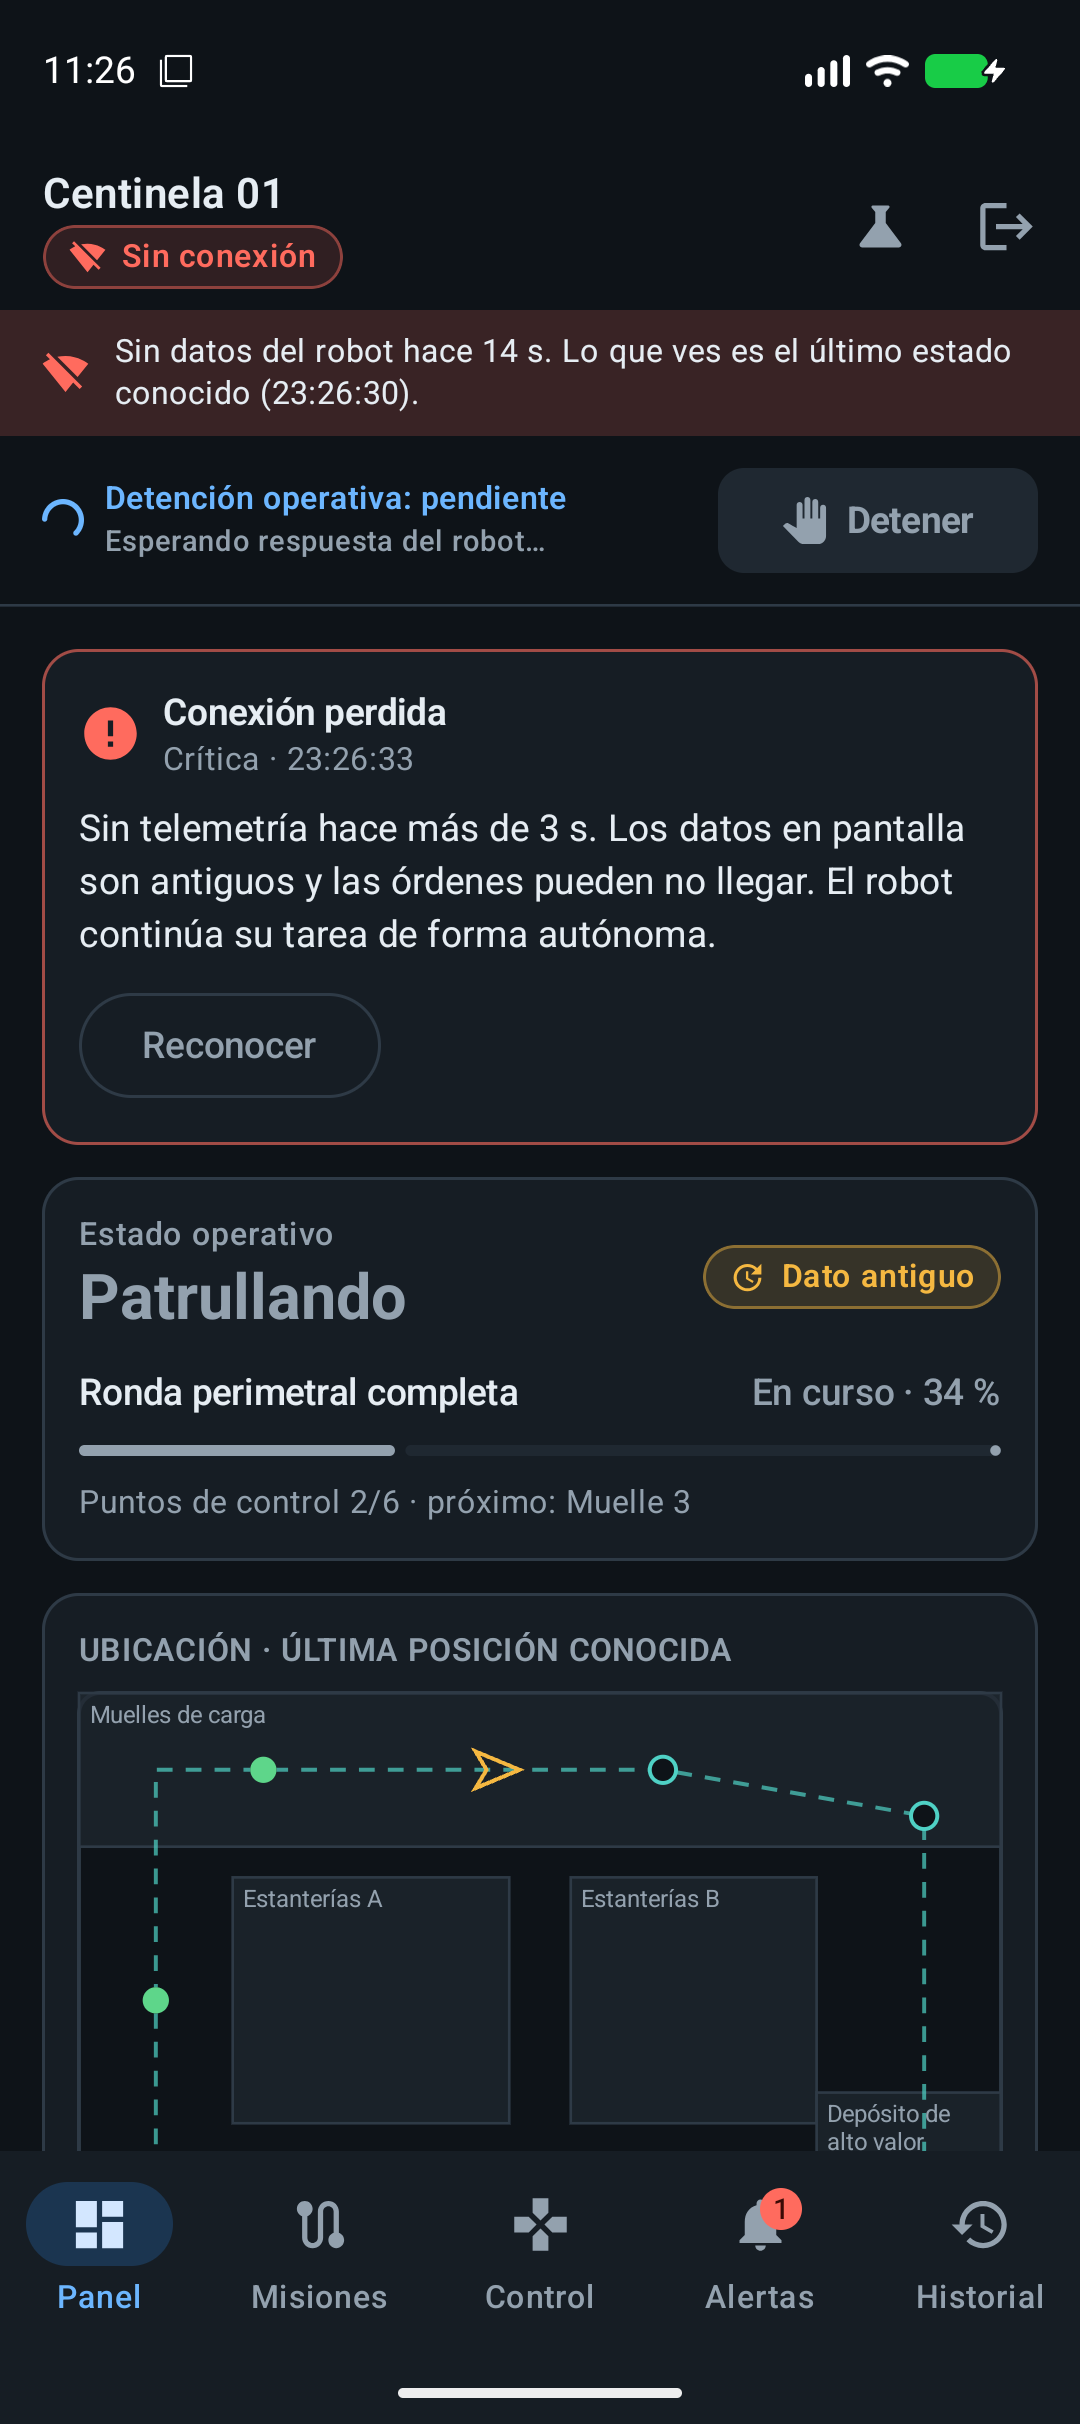
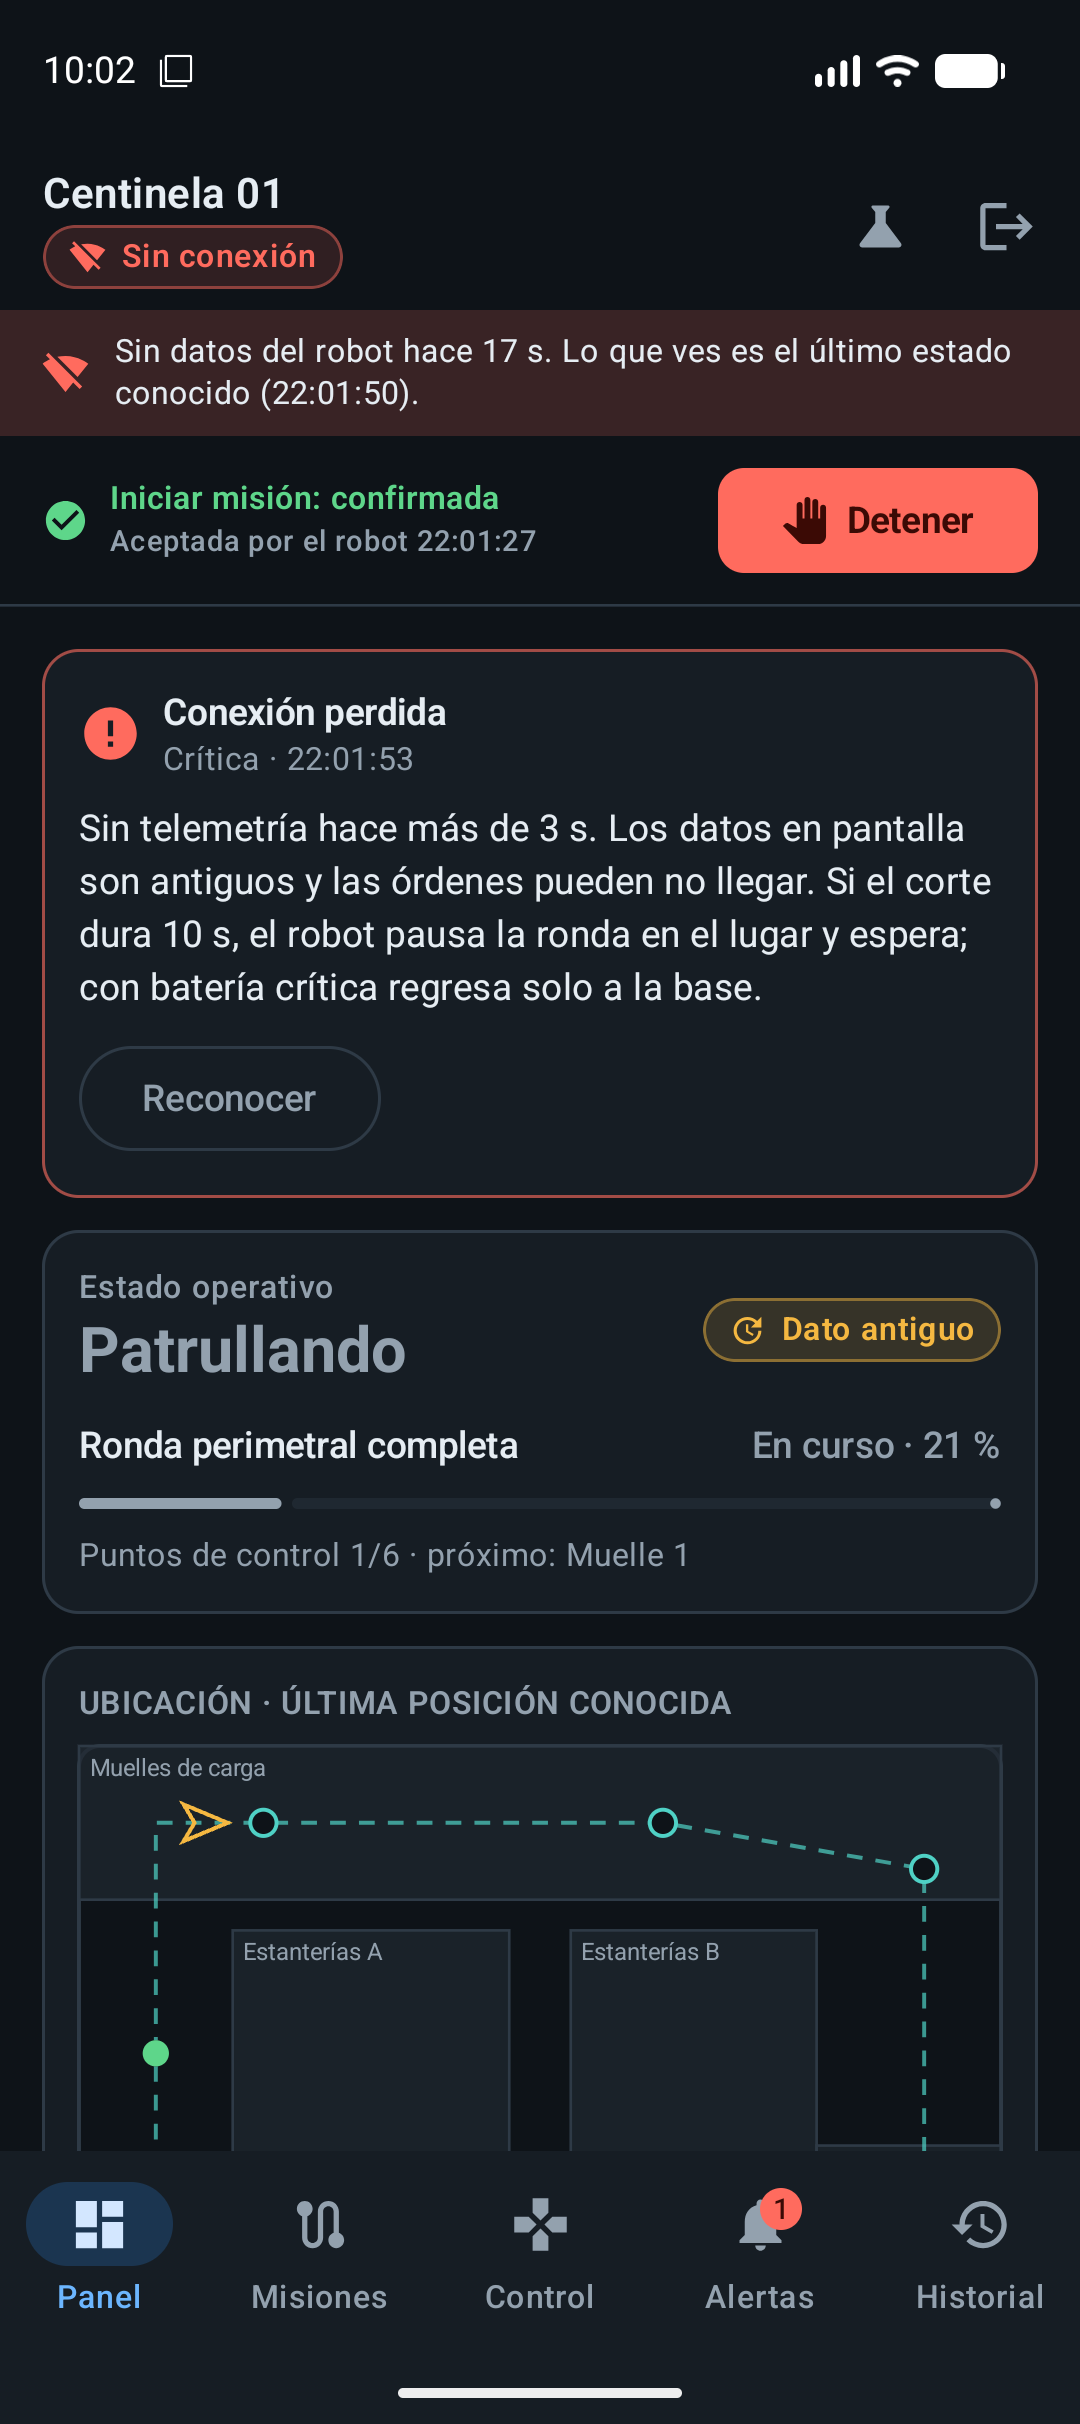
Sin enlace, el robot pausa la ronda y espera una decisión
Cierra #4. Antes, si se cortaba el enlace, el robot seguía la ronda sin
que nadie lo supervisara.

- RobotSimulator: el robot también nota el corte (setOperatorLink). Tras
  10 s sin enlace mientras patrulla, se detiene en el lugar (Esperando
  decisión) y deja en cola la alerta UNSUPERVISED_PAUSE, que llega al
  reconectar. Un corte breve no interrumpe la ronda; el regreso a base no
  se interrumpe y con batería crítica vuelve solo, como antes.
- La alerta ofrece Reanudar ronda, Regresar a base y Cancelar misión.
- Tests nuevos para la pausa y para el regreso sin enlace.
- Docs: decisión 7 con la justificación, riesgo 3, escenario 3, contrato
  de mensajes (alert_type unsupervised_pause) y arquitectura.
- Evidencias del escenario 3 rehechas en el emulador.

diff --git a/app/src/main/kotlin/ar/edu/uade/robothmi/data/sim/RobotSimulator.kt b/app/src/main/kotlin/ar/edu/uade/robothmi/data/sim/RobotSimulator.kt
@@ -86,6 +86,8 @@ class RobotSimulator(
     private var checkpointsInspectedShift = 0
     private var seq = 0L
     private var elapsed = 0f
+    private var operatorLinkUp = true
+    private var secondsWithoutLink = 0f
     private val events = mutableListOf<SimEvent>()
 
     private val atBase: Boolean get() = SiteMap.distanceToBase(x, y) < 0.5f
@@ -95,6 +97,7 @@ class RobotSimulator(
 
     fun tick(dtSeconds: Float, nowMs: Long) {
         elapsed += dtSeconds
+        superviseLink(dtSeconds, nowMs)
         when (state) {
             OperationalState.PATROLLING -> advanceMission(dtSeconds, nowMs)
             OperationalState.RETURNING -> {
@@ -111,6 +114,32 @@ class RobotSimulator(
             else -> speed = 0f
         }
         updateBattery(dtSeconds, nowMs)
+    }
+
+    /**
+     * El robot también nota que perdió el enlace con la app (deja de recibir el latido del operador).
+     * Una ronda sin supervisión no debe seguir: tras [LINK_LOSS_PAUSE_S] s pausa en el lugar y espera.
+     * Si la batería llega a nivel crítico, [updateBattery] lo manda de vuelta a la base igual.
+     */
+    fun setOperatorLink(up: Boolean) {
+        operatorLinkUp = up
+        if (up) secondsWithoutLink = 0f
+    }
+
+    private fun superviseLink(dt: Float, nowMs: Long) {
+        if (operatorLinkUp) return
+        val before = secondsWithoutLink
+        secondsWithoutLink += dt
+        if (before >= LINK_LOSS_PAUSE_S || secondsWithoutLink < LINK_LOSS_PAUSE_S) return
+        if (state != OperationalState.PATROLLING) return
+        interruptForDecision()
+        events += SimEvent.AlertRaised(
+            nowMs, AlertType.UNSUPERVISED_PAUSE, AlertSeverity.WARNING,
+            "Ronda pausada sin supervisión",
+            "El robot perdió el enlace con la app durante ${LINK_LOSS_PAUSE_S.toInt()} s y se detuvo en " +
+                "${SiteMap.zoneAt(x, y)} a esperar. Decidir si reanuda la ronda, regresa a la base o la cancela.",
+            requiresDecision = true,
+        )
     }
 
     private fun advanceMission(dt: Float, nowMs: Long) {
@@ -379,5 +408,6 @@ class RobotSimulator(
         const val LOW_BATTERY = 20f
         const val CRITICAL_BATTERY = 10f
         const val MIN_BATTERY_TO_START = 25f
+        const val LINK_LOSS_PAUSE_S = 10f
     }
 }

diff --git a/app/src/test/kotlin/ar/edu/uade/robothmi/RobotSimulatorTest.kt b/app/src/test/kotlin/ar/edu/uade/robothmi/RobotSimulatorTest.kt
@@ -120,6 +120,52 @@ class RobotSimulatorTest {
     }
 
     @Test
+    fun `sin enlace el robot pausa la ronda y espera decision`() {
+        val sim = newSim()
+        sim.send(CommandType.START_MISSION, "ronda-perimetral")
+        sim.run(5)
+        sim.drainEvents()
+
+        sim.setOperatorLink(false)
+        sim.run(RobotSimulator.LINK_LOSS_PAUSE_S.toInt() - 1)
+        assertEquals(OperationalState.PATROLLING, sim.state) // un corte breve no interrumpe la ronda
+
+        sim.run(1)
+        assertEquals(OperationalState.WAITING_OPERATOR, sim.state)
+        assertEquals(listOf(AlertType.UNSUPERVISED_PAUSE), sim.alertTypes())
+        val stopped = sim.snapshot(now)
+        sim.run(20)
+        assertEquals(stopped.x, sim.snapshot(now).x, 0.001f)
+        assertEquals(MissionState.PAUSED, sim.snapshot(now).mission!!.state)
+        assertTrue(sim.alertTypes().isEmpty()) // avisa una sola vez
+
+        sim.setOperatorLink(true)
+        assertEquals(CommandOutcome.Accepted, sim.send(CommandType.RESUME_MISSION))
+        assertEquals(OperationalState.PATROLLING, sim.state)
+    }
+
+    @Test
+    fun `sin enlace el regreso a base no se interrumpe y la bateria critica lo trae de vuelta`() {
+        val returning = newSim()
+        returning.send(CommandType.START_MISSION, "ronda-perimetral")
+        returning.run(8)
+        returning.send(CommandType.RETURN_TO_SAFE_POINT)
+        returning.setOperatorLink(false)
+        returning.run(RobotSimulator.LINK_LOSS_PAUSE_S.toInt() + 2)
+        assertTrue(returning.state == OperationalState.RETURNING || returning.snapshot(now).atSafePoint)
+
+        val paused = newSim()
+        paused.send(CommandType.START_MISSION, "ronda-perimetral")
+        paused.run(8)
+        paused.setOperatorLink(false)
+        paused.run(RobotSimulator.LINK_LOSS_PAUSE_S.toInt())
+        assertEquals(OperationalState.WAITING_OPERATOR, paused.state)
+        paused.forceLowBattery()
+        repeat(1000) { if (paused.state != OperationalState.RETURNING) paused.run(1) }
+        assertEquals(OperationalState.RETURNING, paused.state)
+    }
+
+    @Test
     fun `reglas de habilitacion de la interfaz`() {
         val sim = newSim()
         val atBase = sim.snapshot(now)

diff --git a/app/src/main/kotlin/ar/edu/uade/robothmi/data/sim/SimulatedRobotRepository.kt b/app/src/main/kotlin/ar/edu/uade/robothmi/data/sim/SimulatedRobotRepository.kt
@@ -139,7 +139,8 @@ class SimulatedRobotRepository(
         while (scope.isActive) {
             delay(TICK_MS)
             val now = clock()
-            // El robot sigue funcionando aunque la app no lo vea.
+            // El robot sigue funcionando aunque la app no lo vea; él también nota el corte.
+            simulator.setOperatorLink(!_settings.value.linkDown)
             simulator.tick(TICK_MS / 1000f, now)
 
             if (!_settings.value.linkDown) {
@@ -163,7 +164,8 @@ class SimulatedRobotRepository(
             severity = AlertSeverity.CRITICAL,
             title = "Conexión perdida",
             detail = "Sin telemetría hace más de ${LINK_TIMEOUT_MS / 1000} s. Los datos en pantalla son antiguos " +
-                "y las órdenes pueden no llegar. El robot continúa su tarea de forma autónoma.",
+                "y las órdenes pueden no llegar. Si el corte dura ${RobotSimulator.LINK_LOSS_PAUSE_S.toInt()} s, " +
+                "el robot pausa la ronda en el lugar y espera; con batería crítica regresa solo a la base.",
             timestampMs = now,
         )
         _alerts.update { listOf(alert) + it }

diff --git a/app/src/main/kotlin/ar/edu/uade/robothmi/ui/screens/DashboardScreen.kt b/app/src/main/kotlin/ar/edu/uade/robothmi/ui/screens/DashboardScreen.kt
@@ -95,6 +95,11 @@ fun alertActions(alert: Alert, state: UiState, request: (UiEvent.SendCommand) ->
             command("Falsa alarma: reanudar", CommandType.RESUME_MISSION),
             command("Regresar a base", CommandType.RETURN_TO_SAFE_POINT),
         )
+        AlertType.UNSUPERVISED_PAUSE -> listOf(
+            command("Reanudar ronda", CommandType.RESUME_MISSION),
+            command("Regresar a base", CommandType.RETURN_TO_SAFE_POINT),
+            command("Cancelar misión", CommandType.CANCEL_MISSION),
+        )
         AlertType.CRITICAL_BATTERY, AlertType.CONNECTION_LOST -> emptyList()
     }
 }

diff --git a/app/src/main/kotlin/ar/edu/uade/robothmi/model/Models.kt b/app/src/main/kotlin/ar/edu/uade/robothmi/model/Models.kt
@@ -93,7 +93,7 @@ enum class AlertSeverity(val label: String) {
     CRITICAL("Crítica"),
 }
 
-enum class AlertType { LOW_BATTERY, CRITICAL_BATTERY, OBSTACLE, INTRUDER, CONNECTION_LOST }
+enum class AlertType { LOW_BATTERY, CRITICAL_BATTERY, OBSTACLE, INTRUDER, UNSUPERVISED_PAUSE, CONNECTION_LOST }
 
 data class Alert(
     val id: Long,

diff --git a/docs/riesgos.md b/docs/riesgos.md
@@ -4,11 +4,12 @@
 |---|---|---|---|---|
 | 1 | **Personas cerca del robot** (limpieza, mantenimiento): choque, tropiezo o susto | El diálogo de inicio recuerda verificar que no haya personas en el recorrido. Botón **Detener** visible en todas las pestañas | Velocidad de ronda limitada a 1,5 m/s. Ante una persona el robot se detiene a distancia y espera; no la sigue ni se acerca | Señalizar que hay un robot circulando. Avisar al personal nocturno el horario de rondas. La parada de emergencia física del robot es el recurso ante peligro real |
 | 2 | **Órdenes accidentales** (toque involuntario) | Iniciar, cancelar y regresar piden confirmación con texto que explica la consecuencia. Las órdenes no aplicables están deshabilitadas y muestran el motivo. La detención no pide confirmación: frenar de más es el error barato | El ViewModel revalida la habilitación antes de enviar. Mientras una orden está pendiente no se puede repetir. El robot valida de nuevo contra su estado real | — |
-| 3 | **Pérdida de conexión**: actuar sobre datos viejos o creer que una orden llegó | Franja "Sin datos hace N s", datos atenuados, robot hueco en el mapa. Las órdenes sin respuesta se muestran como tales, nunca como hechas | Enlace perdido a los 3 s sin telemetría. Solo quedan habilitadas las órdenes de seguridad (detener, regresar). Timeout de 5 s; la app no reenvía sola. El robot sigue su ronda de forma autónoma y con batería crítica vuelve solo | Si la conexión no vuelve en unos minutos, el guardia va a ver al robot. Relevar la cobertura Wi‑Fi de la nave antes de operar |
+| 3 | **Pérdida de conexión**: actuar sobre datos viejos o creer que una orden llegó | Franja "Sin datos hace N s", datos atenuados, robot hueco en el mapa. Las órdenes sin respuesta se muestran como tales, nunca como hechas | Enlace perdido a los 3 s sin telemetría. Solo quedan habilitadas las órdenes de seguridad (detener, regresar). Timeout de 5 s; la app no reenvía sola. Tras 10 s sin enlace el robot pausa la ronda en el lugar y espera una decisión del operador; con batería crítica vuelve solo | Si la conexión no vuelve en unos minutos, el guardia va a ver al robot. Relevar la cobertura Wi‑Fi de la nave antes de operar |
 | 4 | **Confundir "orden enviada" con "orden ejecutada"**, en especial con la detención | Cuatro estados visibles (pendiente, confirmada, rechazada, sin respuesta) con ícono y texto. Aviso permanente en Control: la detención es de software y no reemplaza la parada de emergencia | "Confirmada" solo significa aceptada; el estado real se lee de la telemetría | Capacitar al operador: después de detener, verificar *Detenido* y velocidad 0 en el Panel |
 | 5 | **Privacidad** de las personas detectadas o que circulan | La app no muestra video ni fotos; la alerta solo informa zona y hora | La alerta de detección no lleva imágenes ni datos identificatorios. El historial queda solo en el dispositivo y se puede borrar | Cartelería que informe la videovigilancia. Definir quién accede al historial y por cuánto tiempo se conserva, según la Ley 25.326 de protección de datos personales |
 | 6 | **Batería agotada lejos de la base**: el robot queda tirado en una vía de circulación | Batería siempre visible; advertencia a 20 % con la acción "Regresar a base" en la misma alerta | No se puede iniciar con menos de 25 %. A 10 % el robot aborta y vuelve solo | Planificar las rondas dejando tiempo de recarga |
 
-Aclaración: en una app conectada a un robot real, la decisión de mantener la ronda sin enlace
-(riesgo 3) debería revisarse con el responsable de seguridad del lugar; una alternativa más
-conservadora es que el robot pause o regrese tras un tiempo sin supervisión.
+Aclaración: el comportamiento ante la pérdida de enlace (riesgo 3) se discutió en el
+[issue #4](https://github.com/fieldcheck-uade/robot-hmi-app/issues/4) y está justificado en la
+decisión 7 de [`decisiones.md`](decisiones.md). Con un robot real, el tiempo de espera antes de
+pausar debería acordarse con el responsable de seguridad del lugar.

diff --git a/docs/decisiones.md b/docs/decisiones.md
@@ -14,8 +14,14 @@
    real siempre se lee de la telemetría, y la interfaz lo dice de forma explícita.
 6. **Doble validación.** `CommandRules` habilita o no los botones; el robot (simulador) vuelve a
    validar contra su estado real y puede rechazar. Las reglas de la app son una ayuda, no la autoridad.
-7. **El robot sigue la ronda si se corta el enlace** y vuelve solo con batería crítica. Lo ocurrido
-   durante el corte se entrega al reconectar.
+7. **Sin enlace, el robot pausa la ronda y espera** ([#4](https://github.com/fieldcheck-uade/robot-hmi-app/issues/4)).
+   Un corte breve (menos de 10 s) no interrumpe nada. Si dura más, el robot se detiene en el lugar
+   (*Esperando decisión*) y, al reconectar, el operador decide si reanuda, regresa o cancela. Con
+   batería crítica vuelve solo a la base. Se descartaron las otras dos opciones: **seguir la ronda**
+   deja un robot andando entre personas sin que nadie lo supervise, y **regresar a la base**
+   recorre la nave sin supervisión justo cuando el operador no puede ver ni frenar al robot.
+   Pausar pierde cobertura de vigilancia mientras dura el corte, pero es el estado más predecible.
+   Lo ocurrido durante el corte se entrega al reconectar.
 8. **La decisión cierra la alerta.** Si una alerta pedía una decisión y el robot acepta reanudar,
    regresar o cancelar, la alerta queda reconocida con la decisión anotada.
 9. **Un solo ViewModel** para toda la sesión: todas las pestañas muestran el mismo robot y comparten

diff --git a/docs/escenarios.md b/docs/escenarios.md
@@ -36,10 +36,14 @@ Evidencia: `02-bateria-baja.png`.
    alerta *Conexión perdida*.
 3. Las órdenes de misión quedan deshabilitadas ("Sin conexión: datos desactualizados"). Tocar
    **Detener**: queda *pendiente* y a los 5 s pasa a **sin respuesta** ("No se sabe si la orden llegó").
-4. Panel de simulación → desactivar **Cortar el enlace**: vuelve *Conectado*, la telemetría salta al
-   estado real (el robot siguió avanzando) y el historial registra "Conexión recuperada tras N s".
+4. Esperar al menos 10 s con el enlace cortado: el robot pausa la ronda por su cuenta, pero la app
+   todavía no lo sabe (sigue mostrando el último dato).
+5. Panel de simulación → desactivar **Cortar el enlace**: vuelve *Conectado*, la telemetría salta al
+   estado real (*Esperando decisión*, misión *Pausada*, en el punto donde se detuvo), llega la
+   alerta **Ronda pausada sin supervisión** y el historial registra "Conexión recuperada tras N s".
+6. El operador elige: **Reanudar ronda**, **Regresar a base** o **Cancelar misión**.
 
-Evidencia: `03-desconexion.png`.
+Evidencias: `03-desconexion.png` (sin enlace) y `03b-reconexion-ronda-pausada.png` (al reconectar).
 
 ## 4. Incidente: obstáculo
 

diff --git a/docs/arquitectura.md b/docs/arquitectura.md
@@ -63,8 +63,10 @@ flowchart TD
 - Cada segundo avanza `RobotSimulator.tick()` y, si el enlace está activo, publica un `Telemetry`
   nuevo y entrega los eventos del robot (alertas, cambios de misión).
 - Con el enlace cortado **el robot sigue funcionando** pero la app deja de recibir datos. A los 3 s
-  sin telemetría la conexión pasa a `LOST` y se genera una alerta local. Al volver el enlace llegan
-  juntos el estado actual y lo ocurrido durante el corte.
+  sin telemetría la conexión pasa a `LOST` y se genera una alerta local. El robot también nota el
+  corte (`RobotSimulator.setOperatorLink`): a los 10 s pausa la ronda y deja en cola una alerta
+  `UNSUPERVISED_PAUSE` que pide decisión. Al volver el enlace llegan juntos el estado actual y lo
+  ocurrido durante el corte.
 - Una orden tarda 0,5–1,1 s en responder. Si el enlace está caído se esperan 5 s y queda **sin
   respuesta**. Si no, decide el robot (`RobotSimulator.handle`), que puede **rechazarla** según su
   estado real, o por el interruptor "Rechazar órdenes" del panel de simulación.

diff --git a/docs/contrato-mensajes.md b/docs/contrato-mensajes.md
@@ -115,7 +115,8 @@ Alerta:
 }
 ```
 
-- `alert_type`: `low_battery` · `critical_battery` · `obstacle` · `intruder`
+- `alert_type`: `low_battery` · `critical_battery` · `obstacle` · `intruder` · `unsupervised_pause`
+  (el robot pausó la ronda tras 10 s sin enlace; se entrega al reconectar y pide decisión)
 - `severity`: `info` · `warning` · `critical`
 - La alerta de conexión perdida no viaja por este canal: la genera la app.
 - Por privacidad, la alerta `intruder` no incluye imágenes ni datos que identifiquen a la persona.
